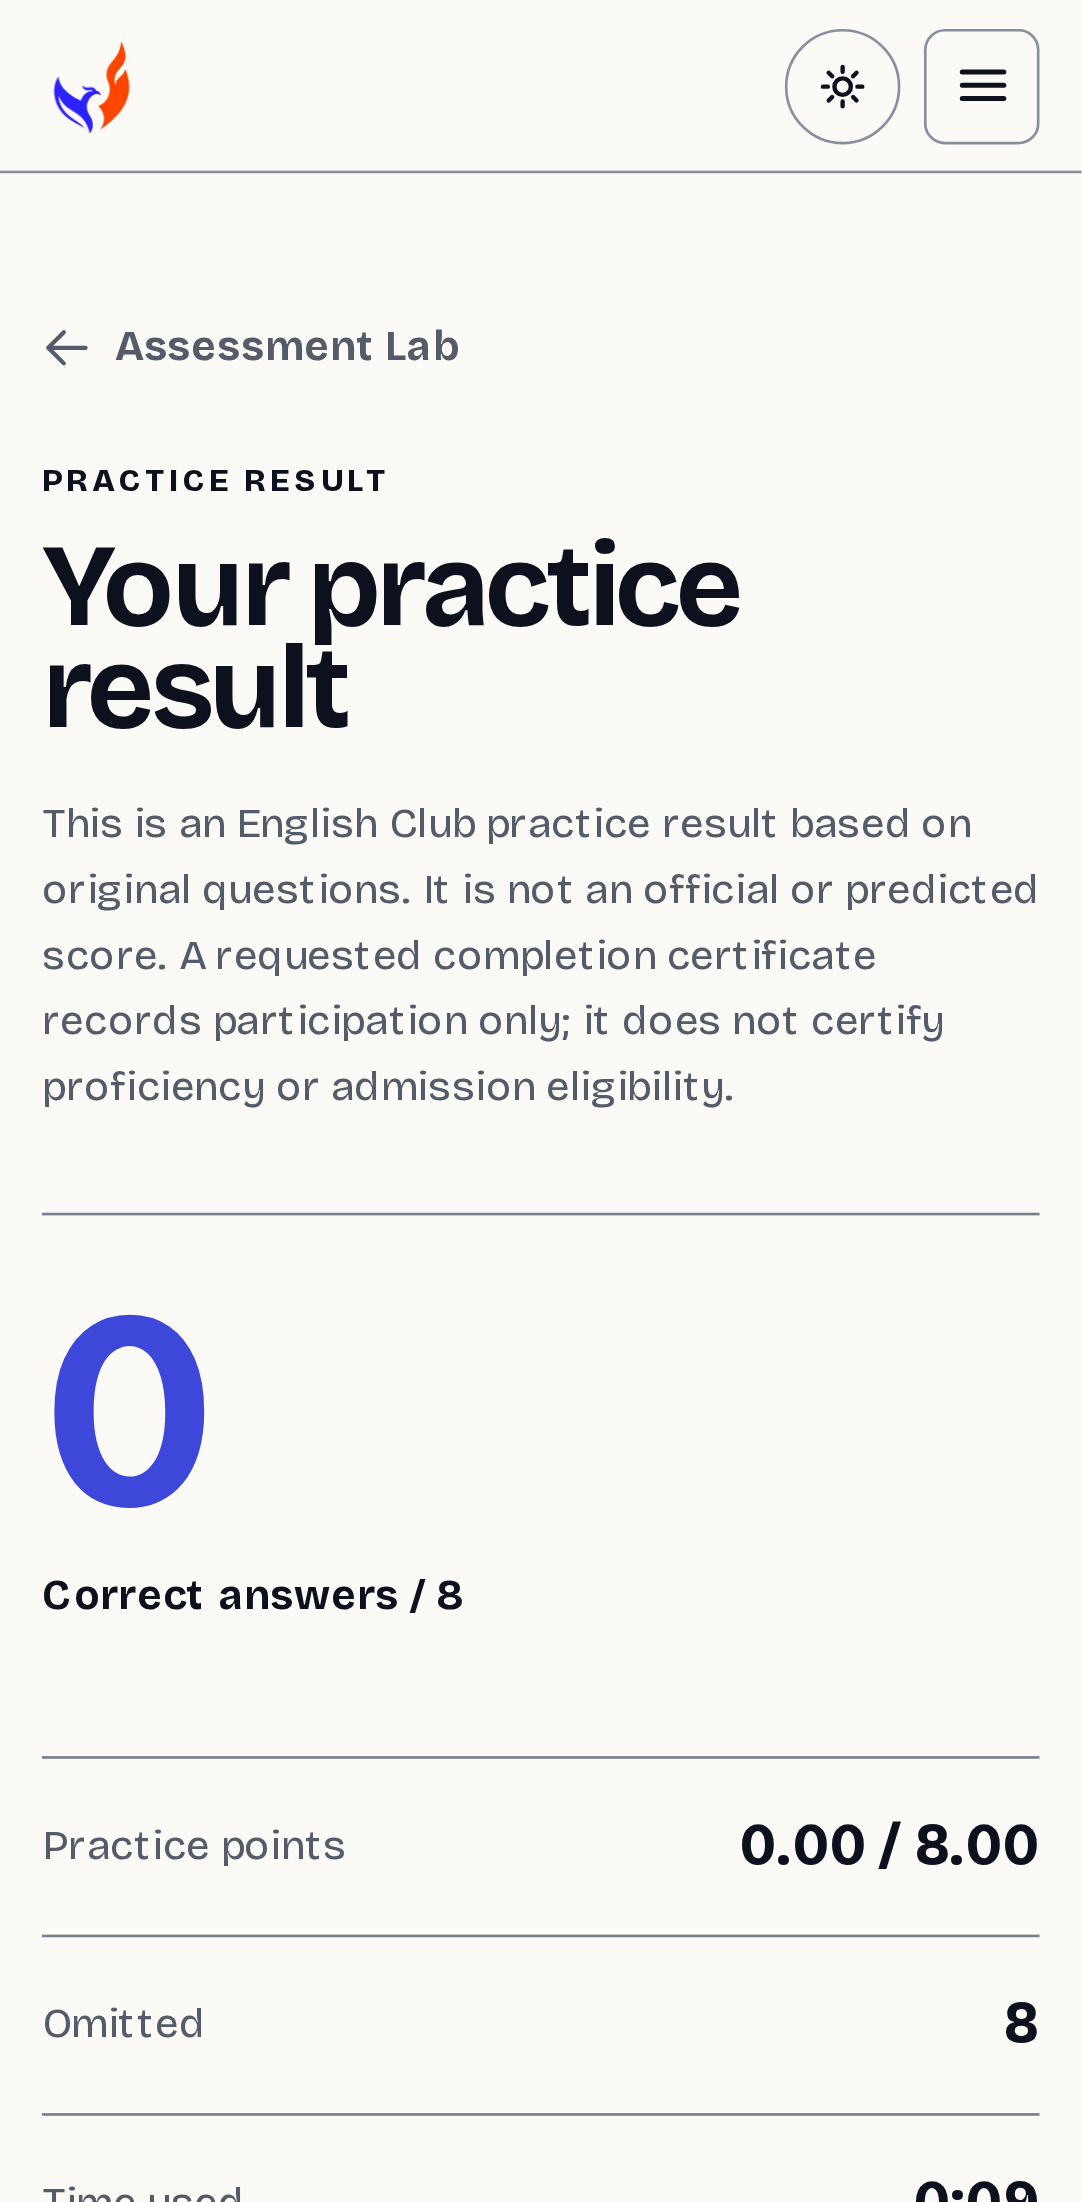
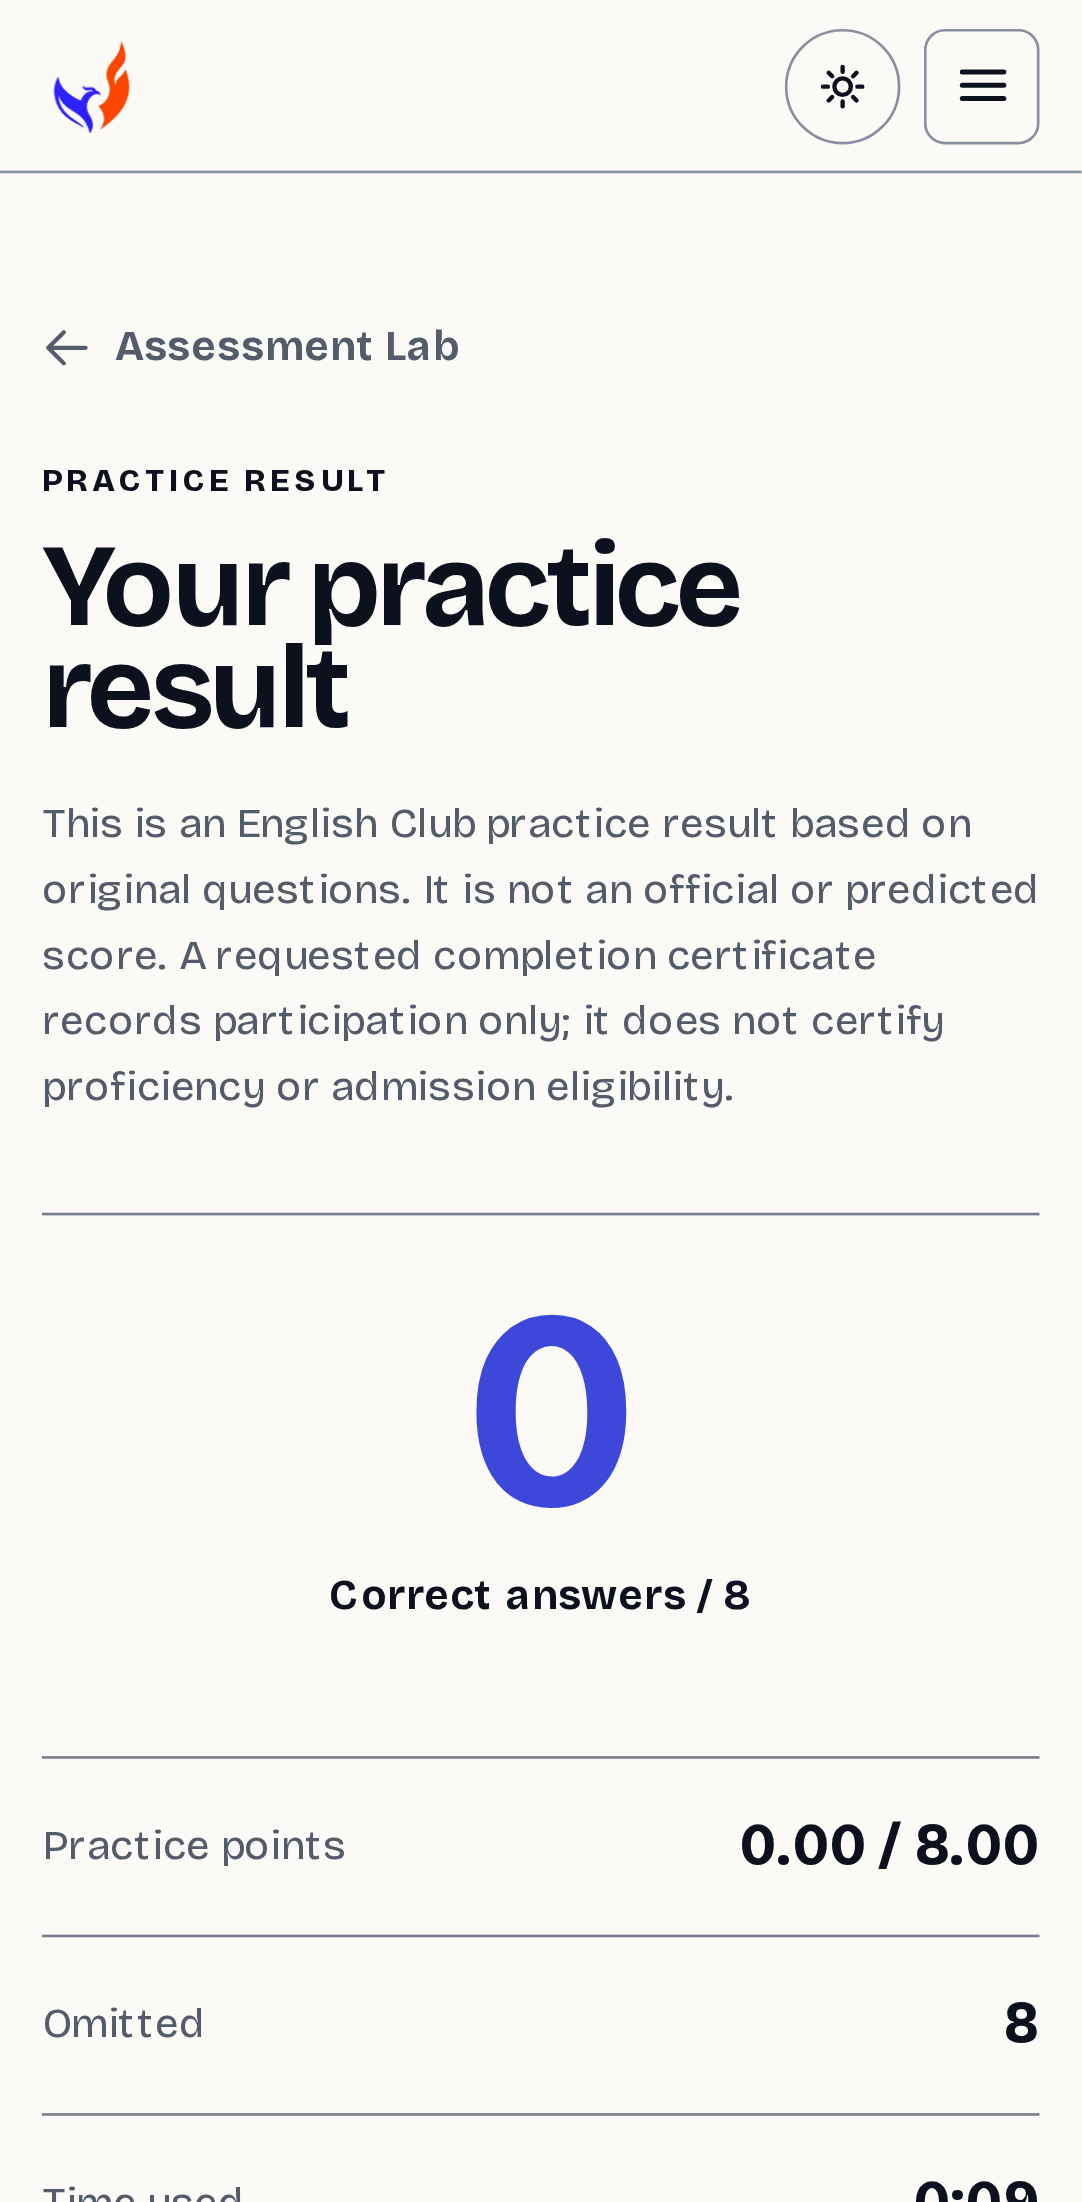
fix: center practice result score

Changed region(s): [[0.2135, 0.5867, 0.6405, 0.7411], [0.0305, 0.5867, 0.2135, 0.7411], [0.671, 0.7103, 0.7015, 0.7411]]

diff --git a/src/components/practice/practice.module.css b/src/components/practice/practice.module.css
@@ -1429,6 +1429,8 @@
 
 .rawResultLead {
   display: grid;
+  justify-items: center;
+  text-align: center;
 }
 
 .rawResultLead strong {
